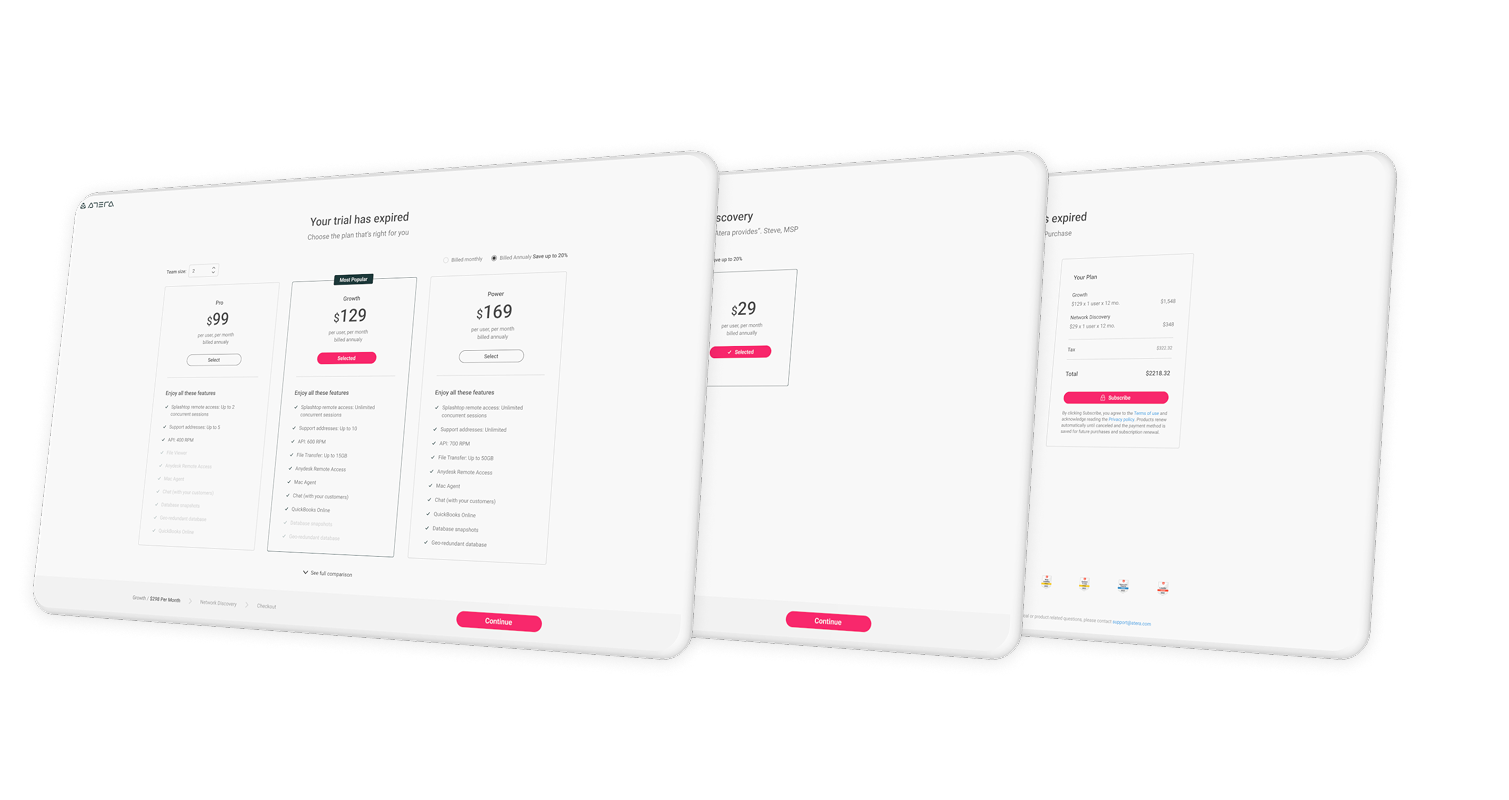
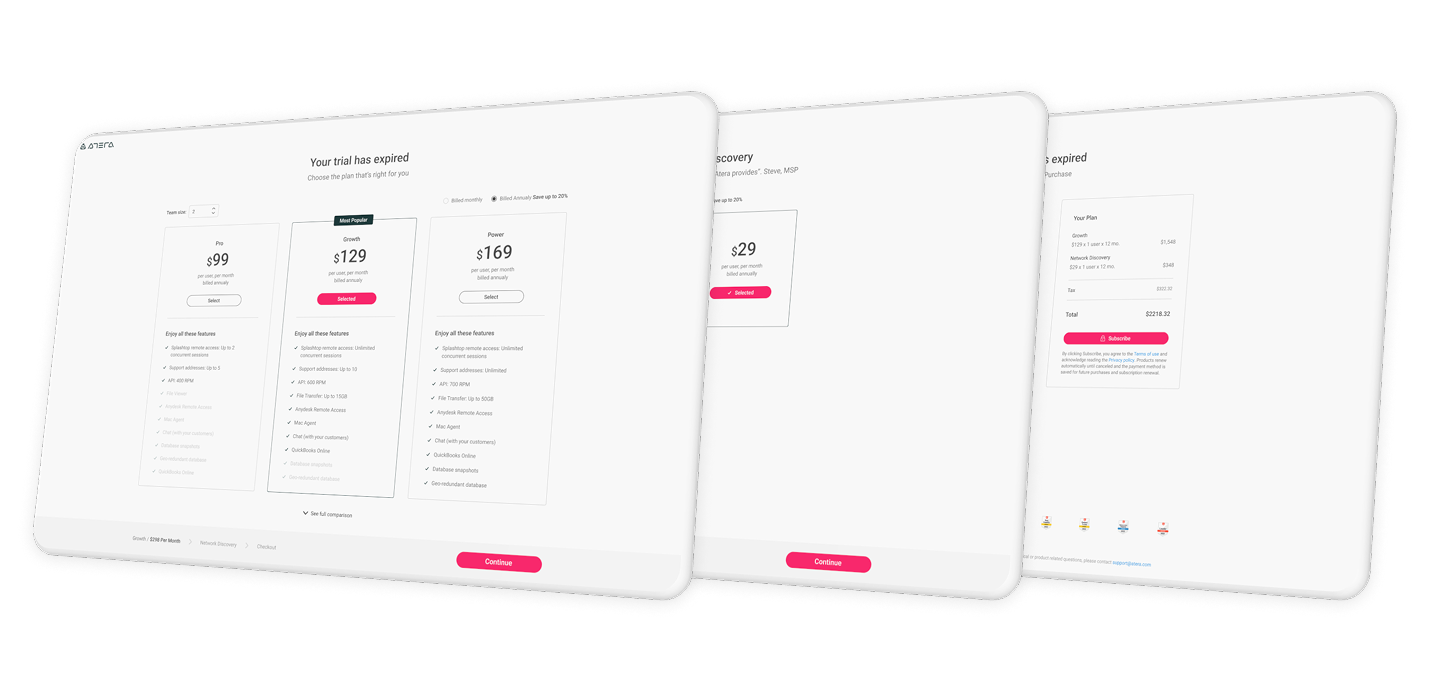
card thumbnail replaced with the new balanced image.

diff --git a/index.html b/index.html
@@ -491,8 +491,8 @@ footer {
 
     <!-- Case study 4: EOT Redesign -->
     <a class="case-card" href="eot-redesign/">
-      <div class="case-card__img">
-        <img src="eot-redesign/images/card-thumbnail.png" alt="Atera Purchase Pages Redesign" style="object-fit: contain; object-position: center; background: #C8E0FC;">
+      <div class="case-card__img" style="background: #C8E0FC; display: flex; align-items: center; justify-content: center;">
+        <img src="eot-redesign/images/card-thumbnail.png" alt="Atera Purchase Pages Redesign" style="width: 85%; height: 85%; object-fit: contain;">
       </div>
       <div class="case-card__body">
         <span class="case-card__tag">UX &amp; UI Design</span>
